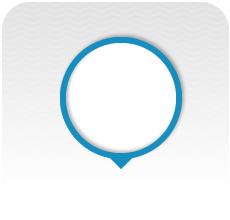
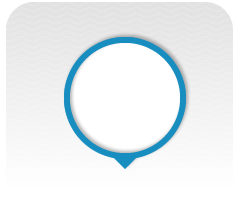
css testimonials

diff --git a/css/sofi-main.css b/css/sofi-main.css
@@ -886,19 +886,30 @@ div#invest-home-button {
 	width: 240px;
 }
 .testimonial-img {
-	width: 130px;
-	height: 130px;
+	width: 240px;
+	height: 220px;
 	margin: auto;
+	background: url('/wp-content/themes/sofiwp/images/testimonials/testimonial-block-empty.png') no-repeat 50%;
+}
+.testimonial-img img {
+	width: 120px;
+	height: 120px;
+	position: relative;
+	left: 65px;
+	top: 34px;
+	z-index: -9;
 }
 .testimonial-info {
 	text-align: center;
+	position: relative;
+	top: -40px;
 }
 .testimonial-info p {
-	margin-bottom: 2px;
+	margin: 3px;
 }
 .test-type {
 	font: 700 13px/13px "Noto sans", Arial, sans-serif;
-	color: #39acdb;
+	color: #178dc0;
 	text-transform: uppercase;
 }
 .test-name {
@@ -908,4 +919,14 @@ div#invest-home-button {
 }
 .test-name:before {
 	content: '- ';
+}
+.testimonials {
+clear: both;
+}
+.testimonials p {
+font: 400 30px/34px "Noto sans", Arial, sans-serif;
+}
+.testimonials p:before,
+.testimonials p:after {
+	content: '"';
 }
